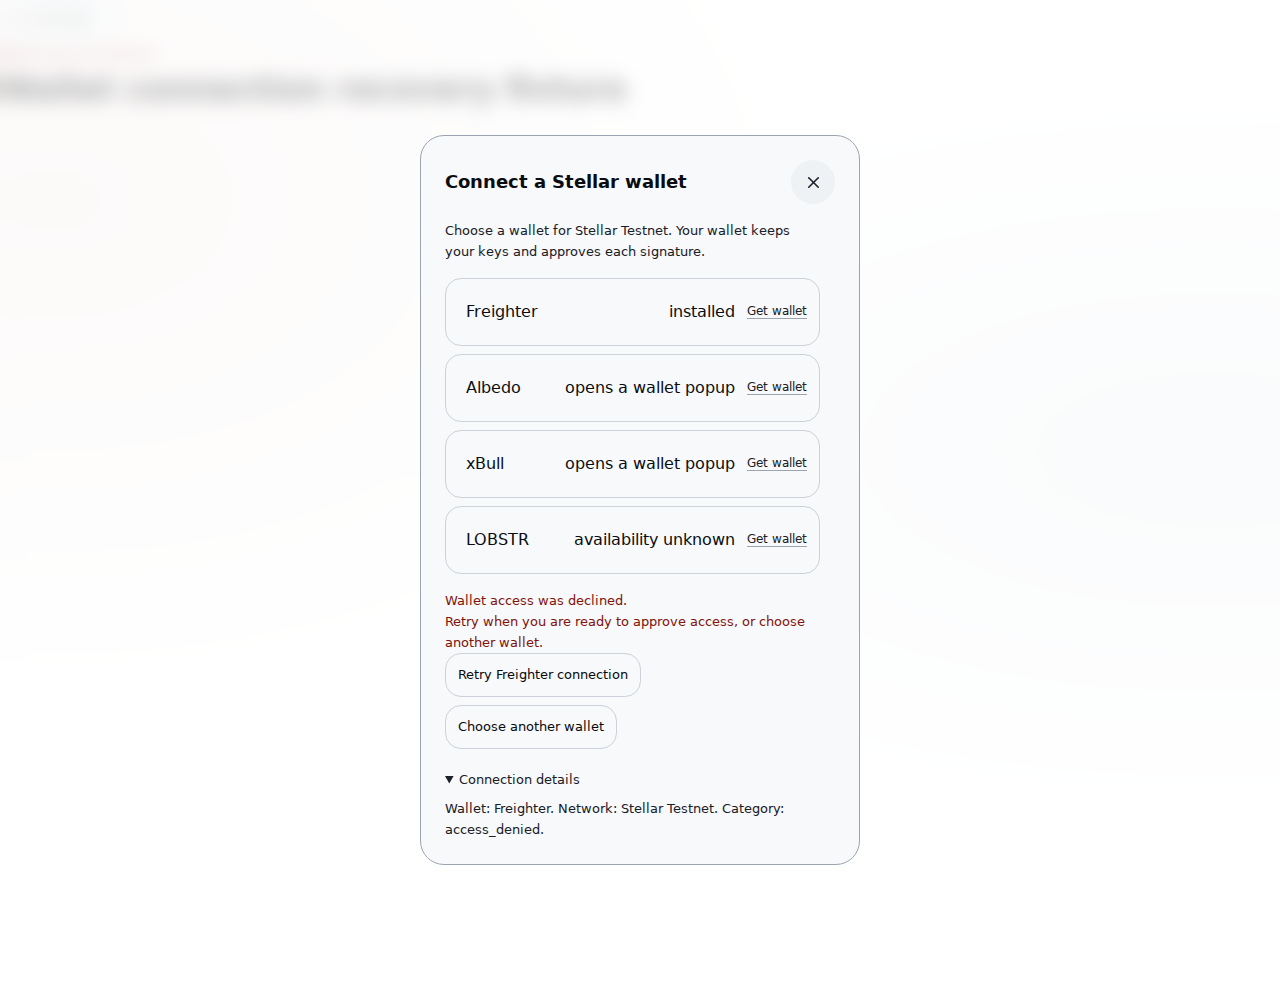
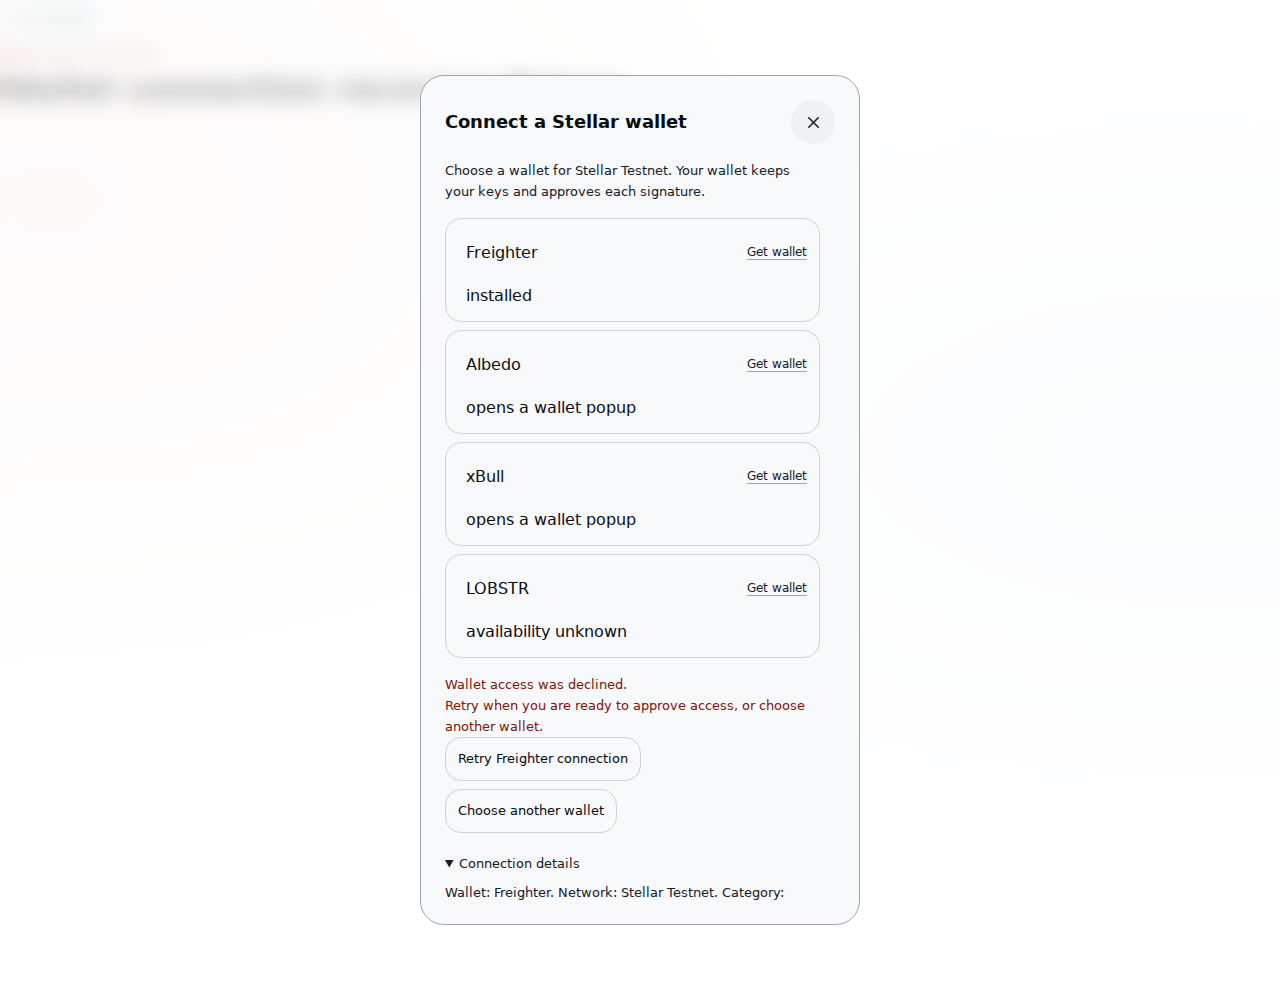
Record current wallet polling and mobile recovery validation

Changed region(s): [[0.3438, 0.062, 0.625, 0.899]]

diff --git a/docs/review/wallet-polling-limits/README.md b/docs/review/wallet-polling-limits/README.md
@@ -17,4 +17,4 @@ Source fingerprints and browser scope are recorded in [browser-evidence.json](br
 - [Failed status refresh with claim action blocked](failed-refresh-desktop.png)
 - [Fresh transaction detail on mobile](fresh-detail-mobile.png)
 
-Node 22 validation uses live signing suites disabled. The final source passed formatting, interface rules, contrast, 359 deterministic tests, strict lint and TypeScript. Production build verification is recorded separately in the handoff metadata. The Impeccable detector returned no findings for the changed recovery and transfer surfaces.
+All seven supported Node22 commands passed on source 2deebbe99c8335a21e15775c82baf58e04f9b4f4: formatting, house, contrast, 408 deterministic tests with four opt-in live skips, strict lint, TypeScript and production build. Screenshot inspection then found narrow wallet names collapsing vertically; the current grid keeps names readable and availability on a separate row, with 44px wallet/install controls. The current browser passed explicit wallet-label width and height assertions and refreshed inspected captures. The final CSS production build also passed at source 4091e147edacc3ffcf66c5d1d1abbea688beb98a, with fresh formatting, house and contrast checks. Source evidence is in `validation-reuse.json`. The Impeccable detector returned no findings for the changed recovery and transfer surfaces.
